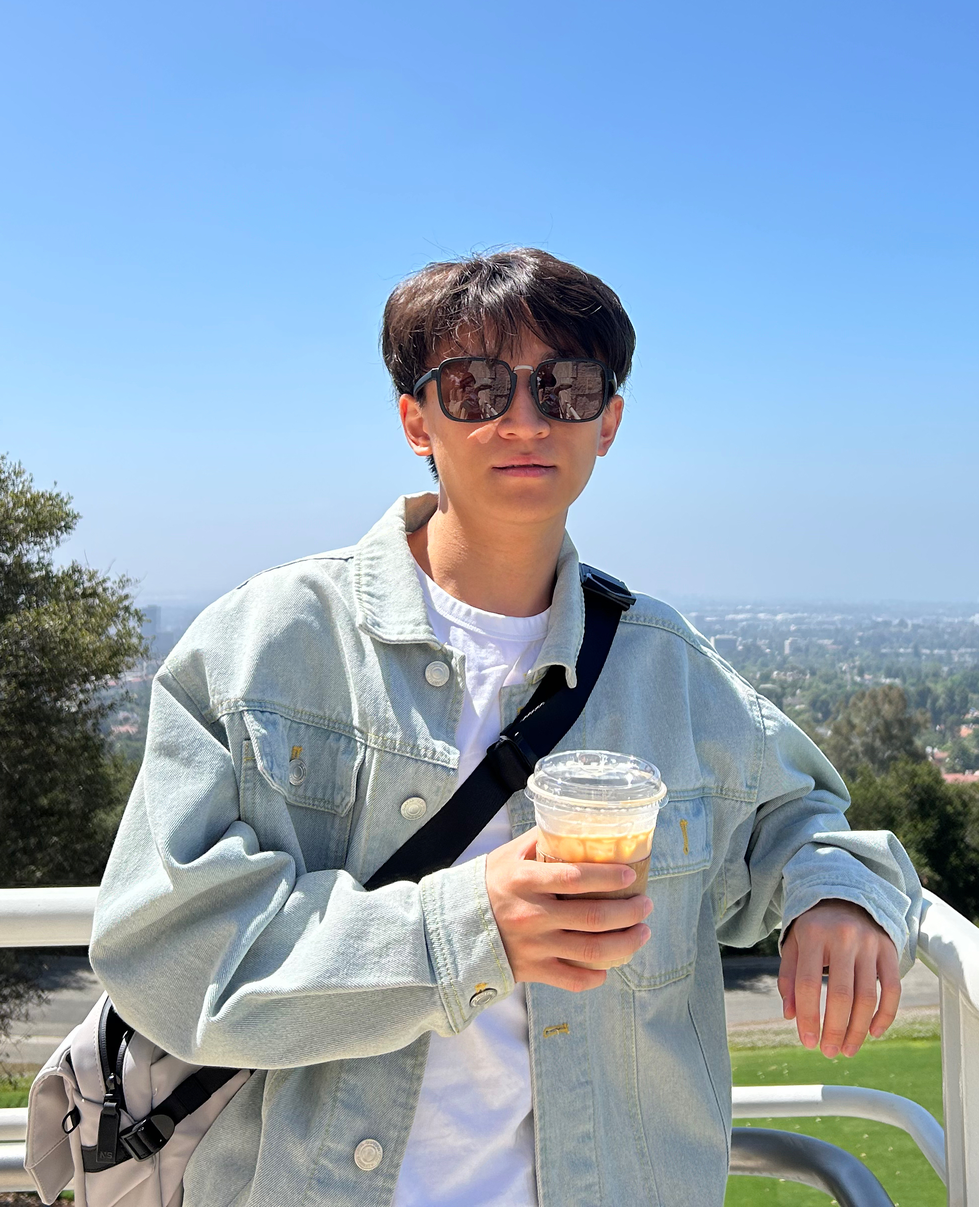
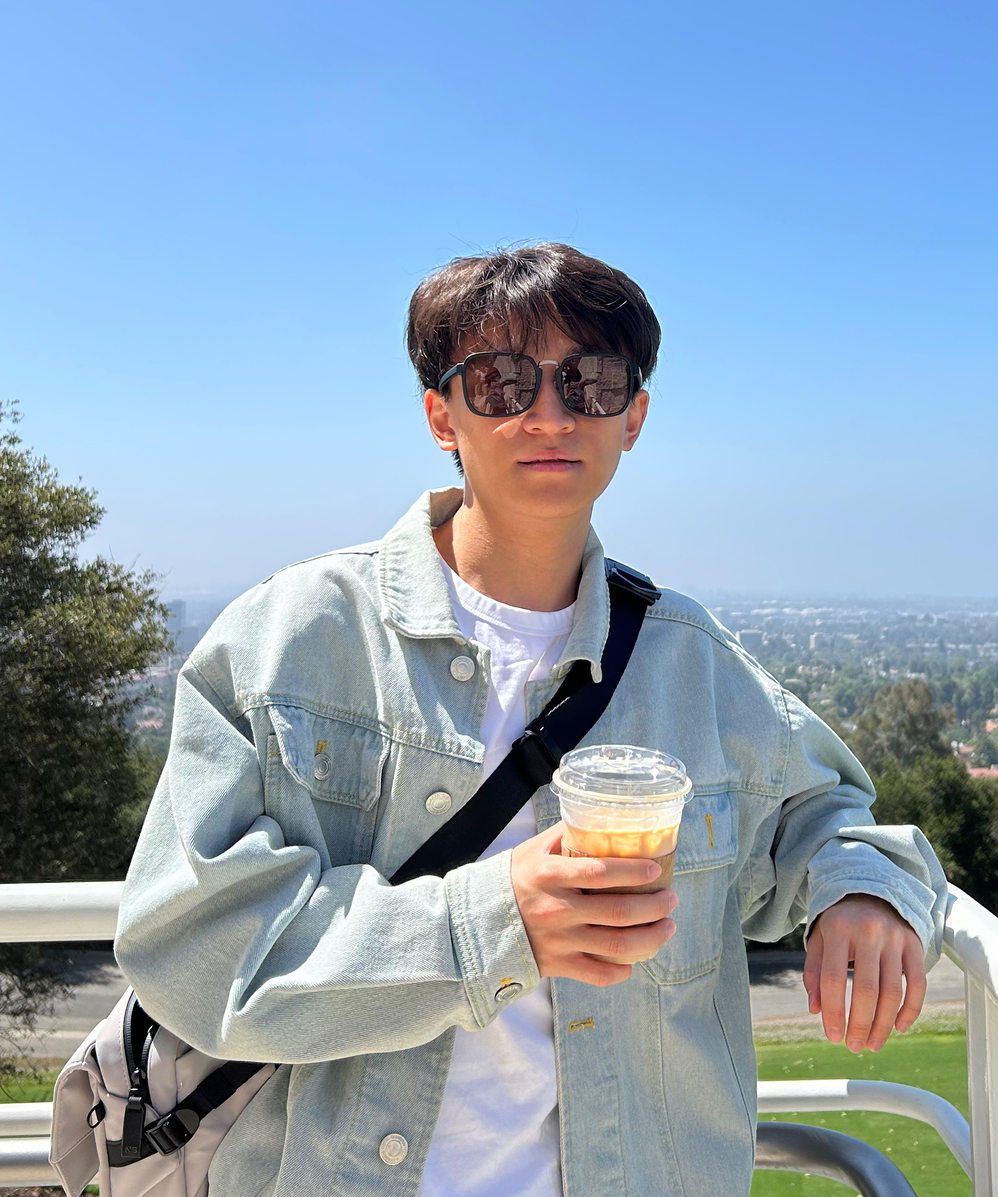
update profile image

Changed region(s): [[0.0, 0.1875, 1.0, 1.0]]

diff --git a/index.html b/index.html
@@ -82,7 +82,7 @@
               <img
                 src="images/profile.jpg"
                 alt=""
-                style="width: 500px; height: 600px"
+                style="width: 2000px; height: 2400px"
               />
             </span>
           </section>
